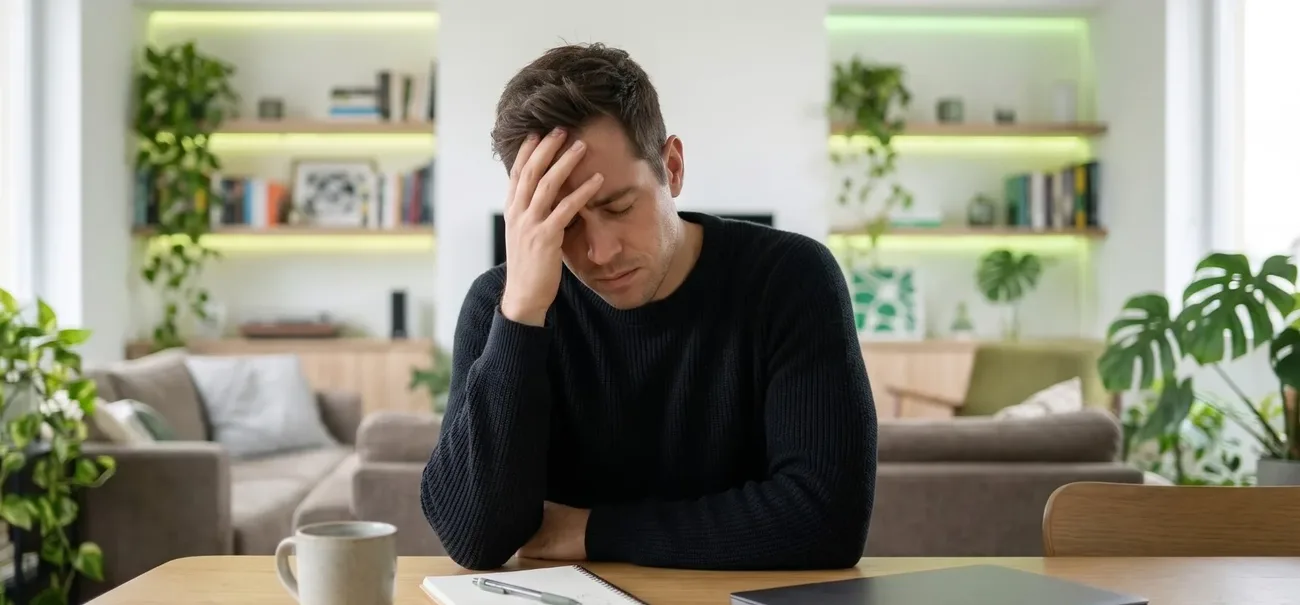
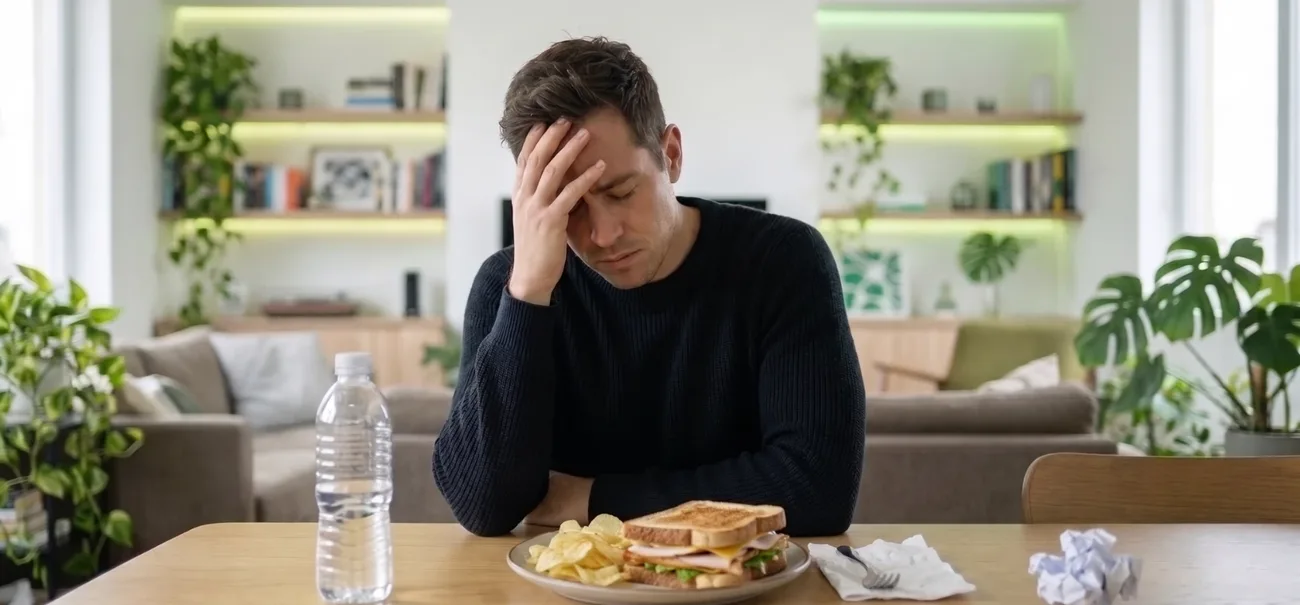
Blog: troca a imagem do guia Sintomas de abstinência
Foto nova (2000x1000, sem corte) com prato e garrafa de água na mesa.
Card mais aberto (topo 116, largura 1900) pra caber a cabeça e o prato,
ainda centralizado no homem (sujeito 735 a 1365). Alt atualizado.

diff --git a/lib/guias.ts b/lib/guias.ts
@@ -2255,7 +2255,7 @@ export const GUIAS: Guia[] = [
       },
     ],
     imagem: true,
-    imagemAlt: "Homem sentado a uma mesa, com a mão na testa e os olhos fechados, ao lado de uma caneca, um caderno e um notebook fechado.",
+    imagemAlt: "Homem sentado a uma mesa, com a mão na testa e os olhos fechados, diante de um prato com sanduíche e batata chips e uma garrafa de água.",
     imagemCard: true,
   },
   // Guia de opioides (06/11/2026), escrito depois da pesquisa dos 10 primeiros do Google (docs/pesquisas-blog/
